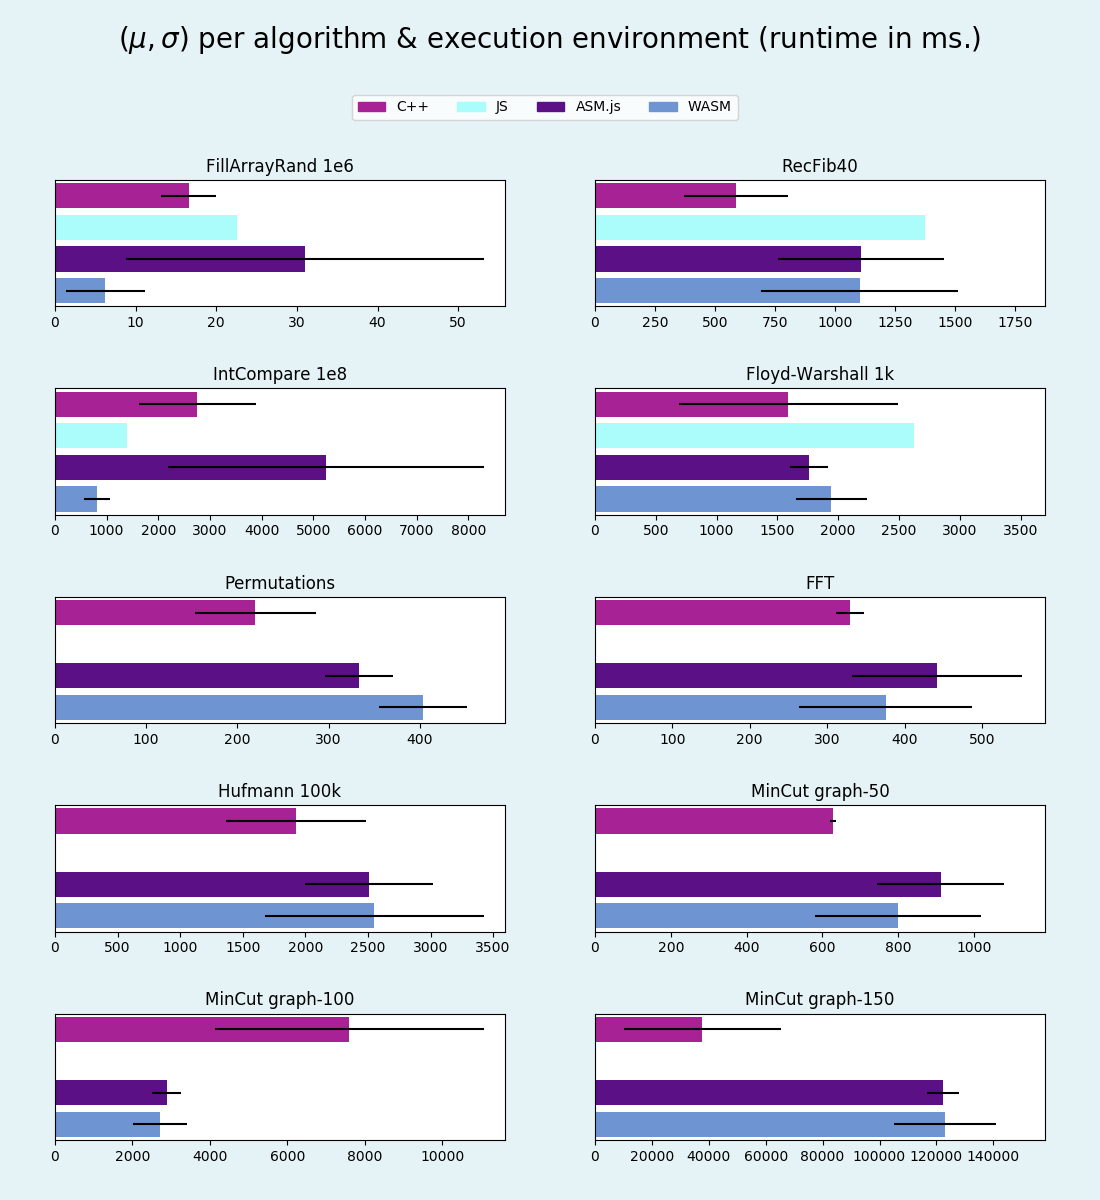
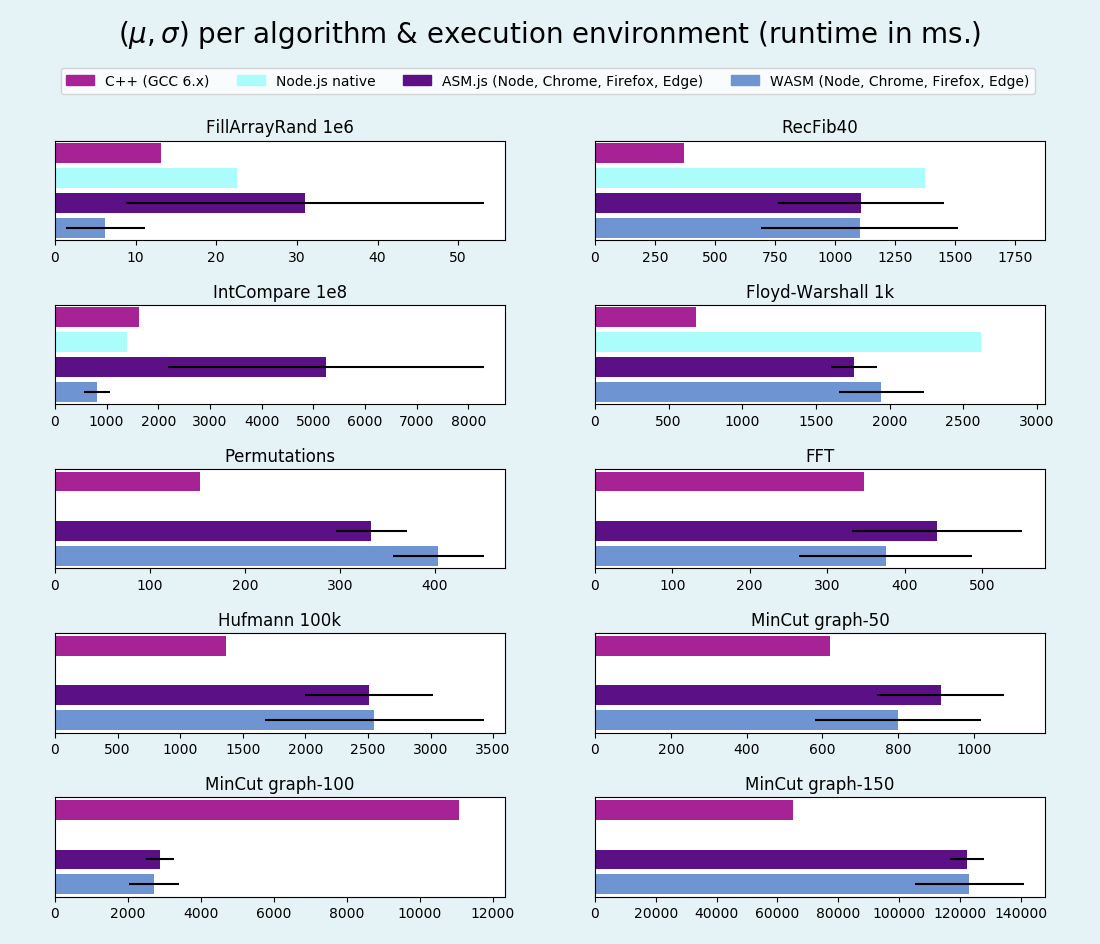
only picked GCC from C++ , improved legend

diff --git a/stats/plots/one_plot_per_algo.py b/stats/plots/one_plot_per_algo.py
@@ -7,7 +7,7 @@ import math
 OUTPUT_DIR = 'output'
 FILE_NAME = 'all_subplots_'
 FILE_FORMAT = '.png'
-COLOR_PALETTE = 3
+COLOR_PALETTE = 1
 N = 4
 
 # Color palettes
@@ -26,7 +26,7 @@ INPUT_COLS.pop(0)
 overall_means = np.array(data.mean(axis=0))
 overall_stds = np.array(data.std(axis=0))
 
-natives = ["Native C++ GCC", "Native C++ VS"]
+natives = ["Native C++ GCC"] #, "Native C++ VS"]
 jss = ["native JS Node"]
 asms = ["ASM.js Node", "ASM.js Chrome", "ASM.js Firefox", "ASM.js Edge"]
 wasms = ["WASM Chrome", "WASM Firefox", "WASM Edge"]
@@ -93,8 +93,8 @@ for idx, col in enumerate(INPUT_COLS):
     ax.set_yticks([])
 
 
-labels = ('C++', 'JS', 'ASM.js', 'WASM')
-leg = plt.figlegend(lines, labels, loc=(0.32, 0.9), ncol=4, labelspacing=2. )
+labels = ('C++ (GCC 6.x)', 'Node.js native', 'ASM.js (Node, Chrome, Firefox, Edge)', 'WASM (Node, Chrome, Firefox, Edge)')
+leg = plt.figlegend(lines, labels, loc=(0.055, 0.9), ncol=4, labelspacing=2. )
 for idx, handle in enumerate(leg.legendHandles):
     handle.set_color(colors[COLOR_PALETTE][N-idx-1])
 
